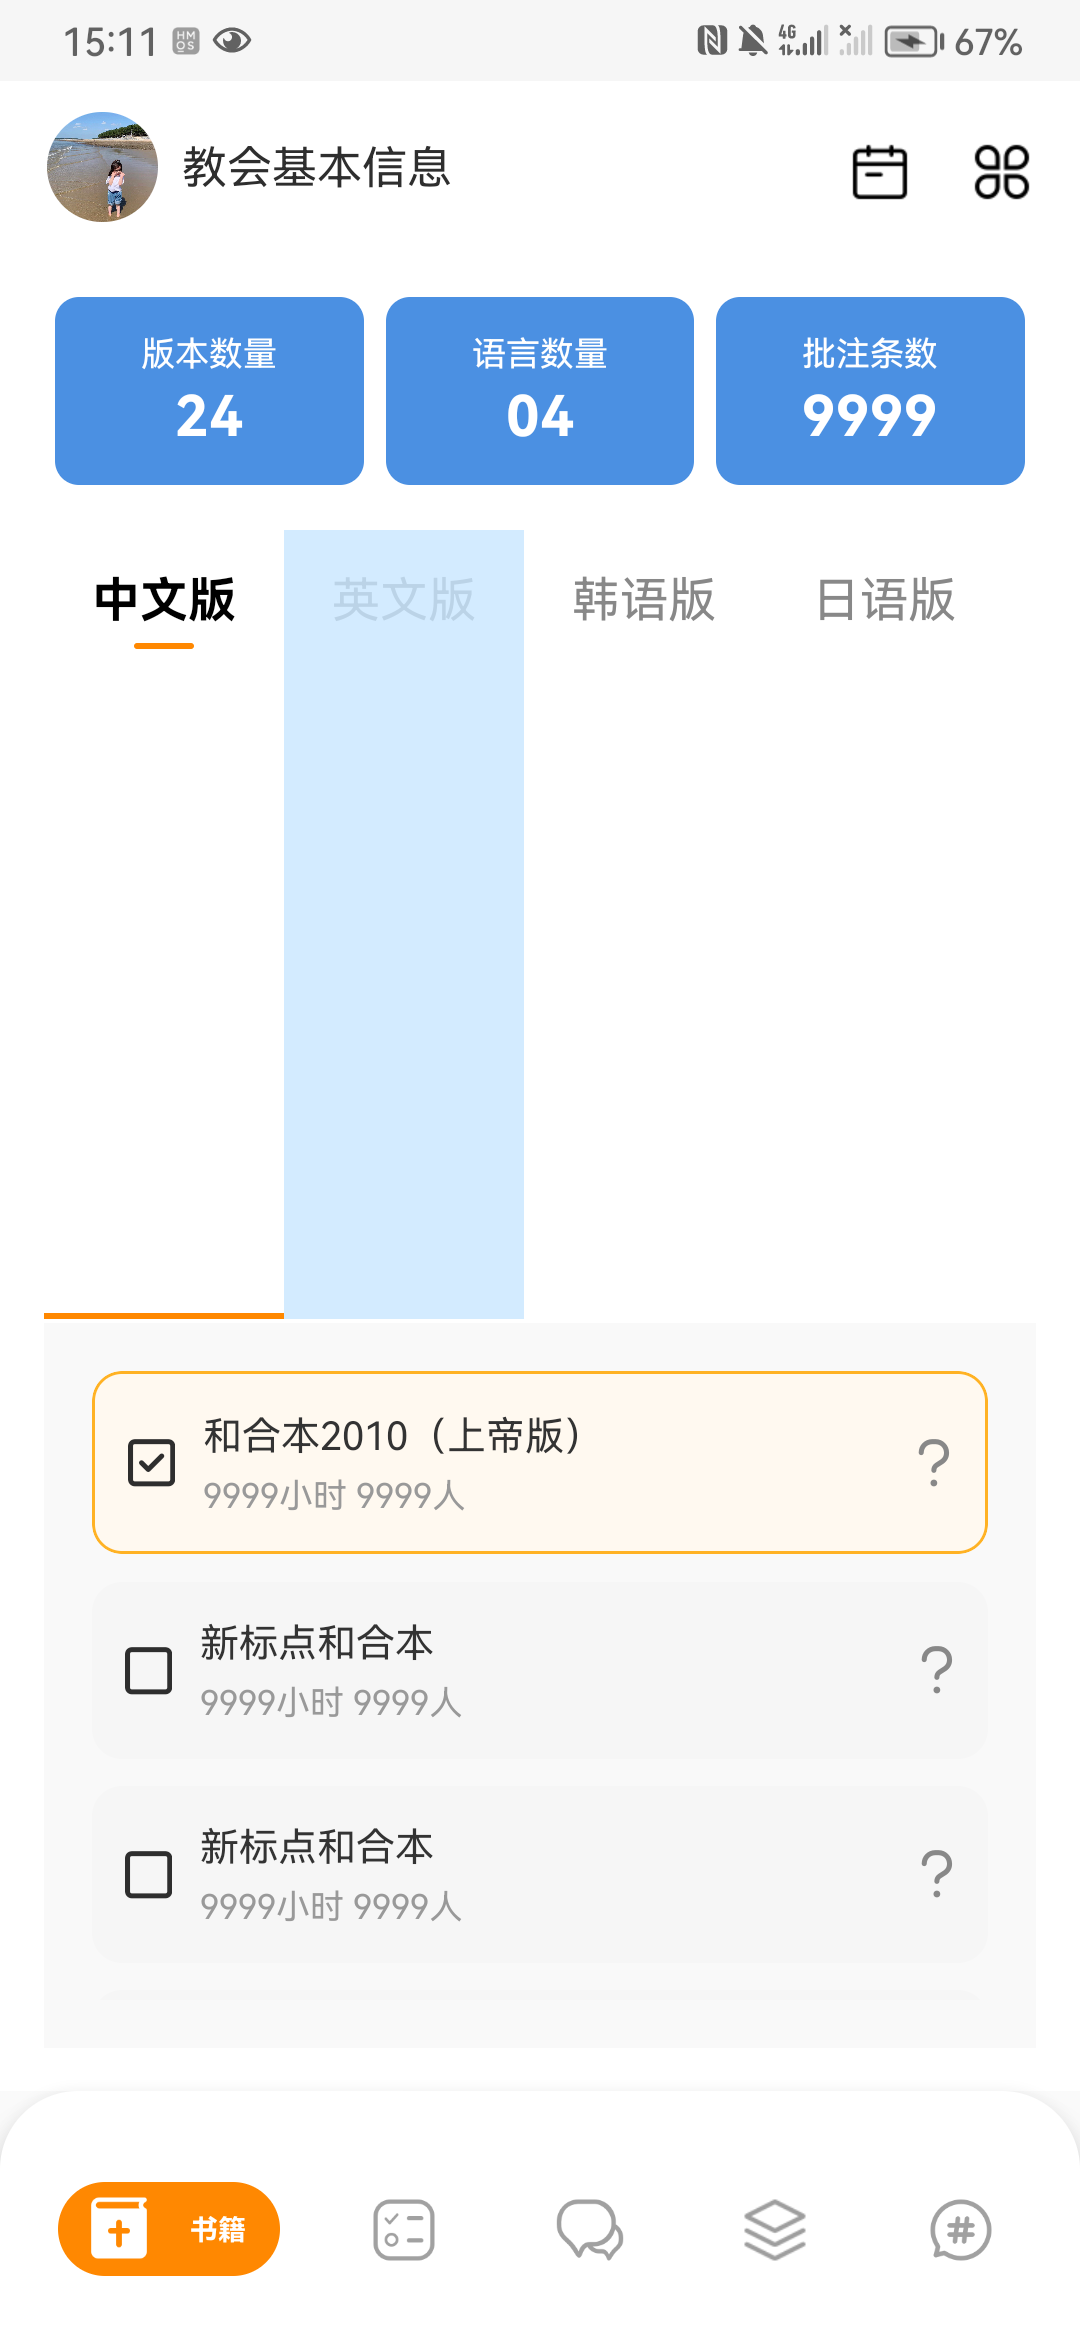
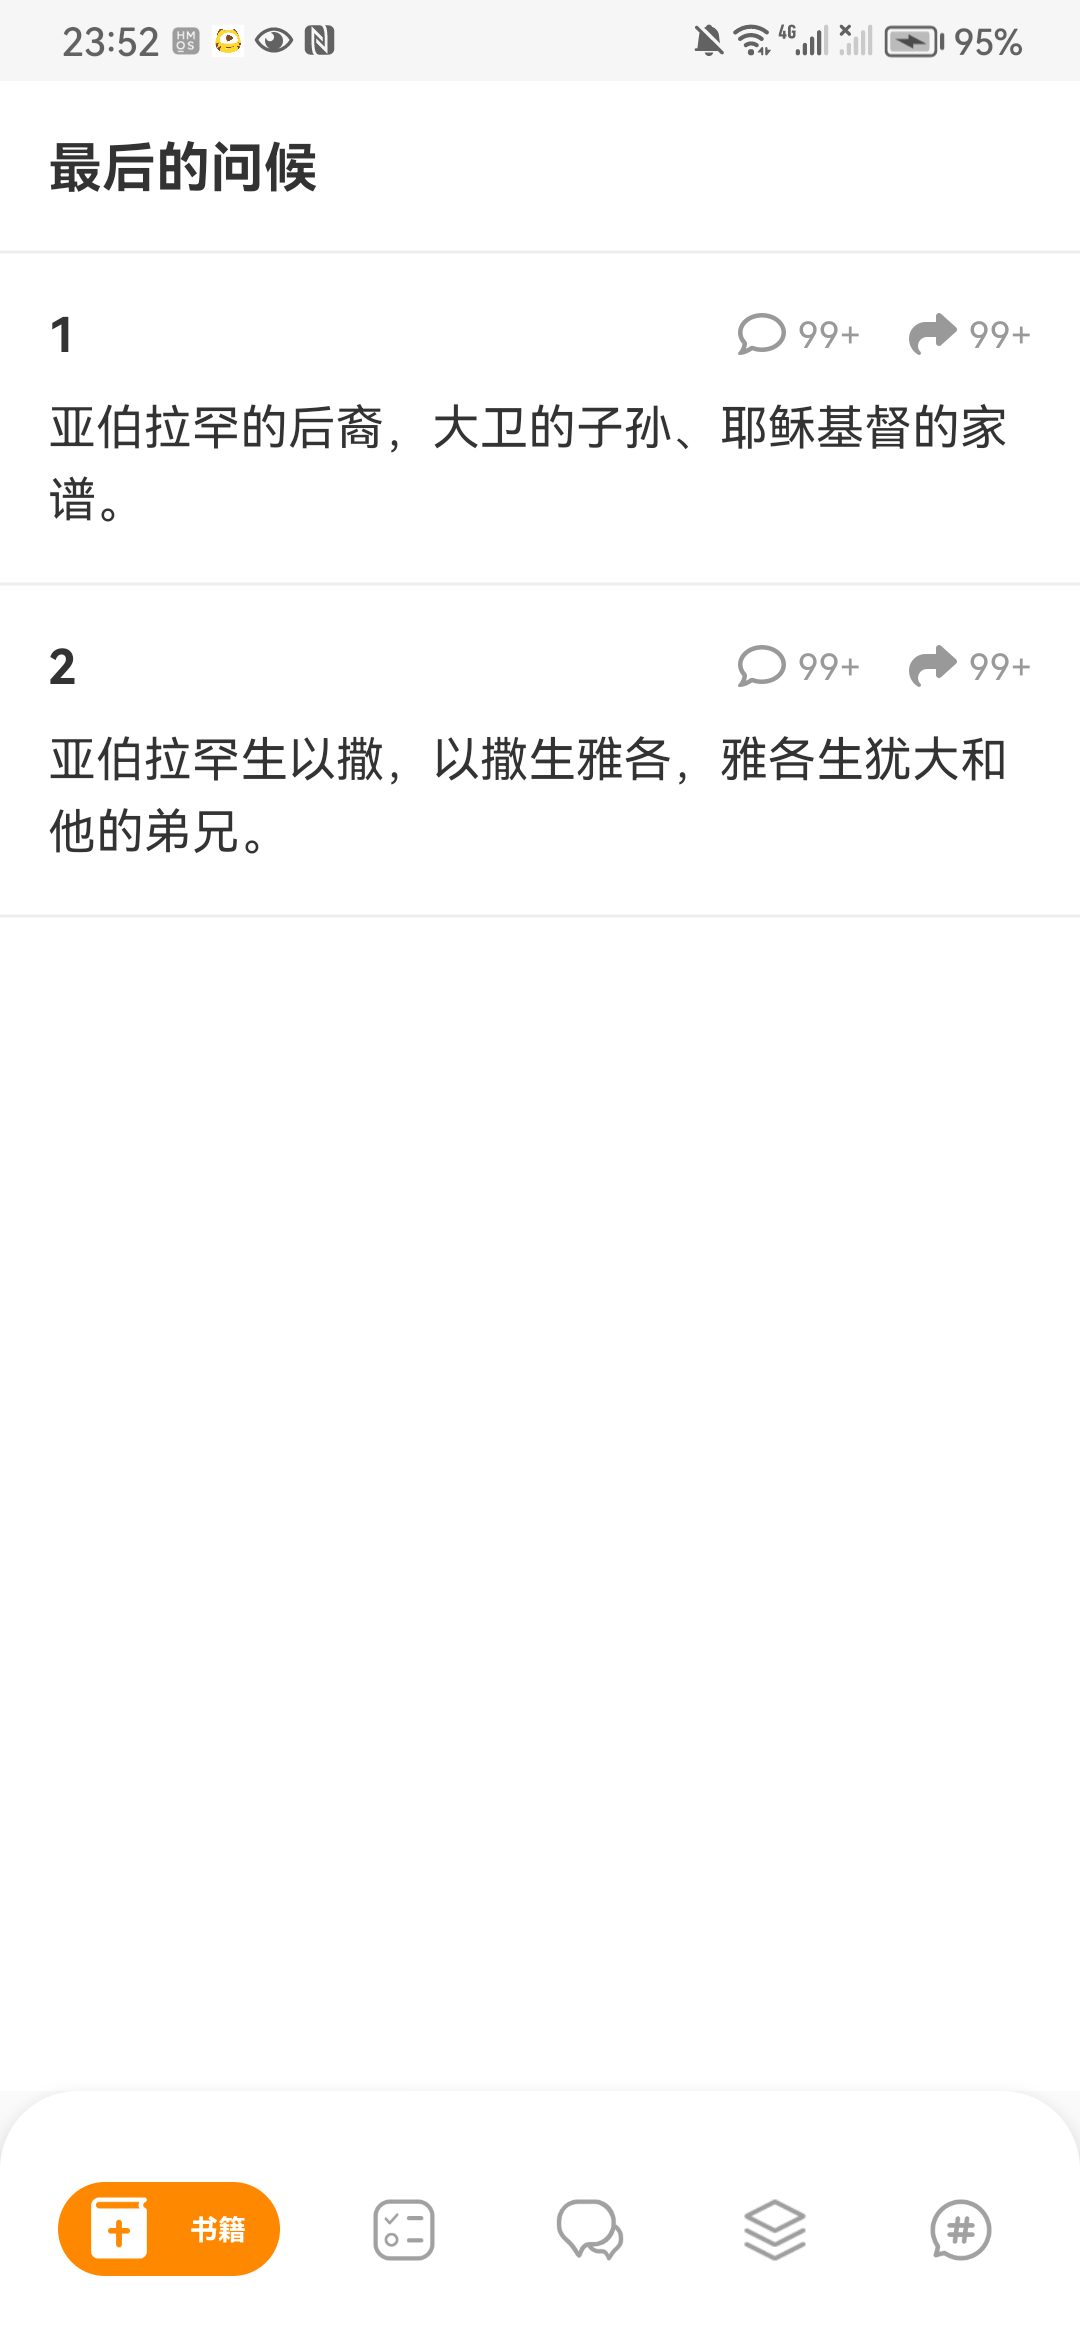
book

diff --git a/rn/screens/BookManage/Genealogy.tsx b/rn/screens/BookManage/Genealogy.tsx
@@ -1,0 +1,157 @@
+import React from 'react';
+import { View, StyleSheet, ScrollView, StatusBar, TouchableOpacity } from 'react-native';
+import BaseText from '@components/BaseText';
+import FontAwesome from '@react-native-vector-icons/fontawesome6';
+import { useNavigation } from '@react-navigation/native';
+
+const genealogyData = [
+    { id: 1, text: '亚伯拉罕的后裔，大卫的子孙、耶稣基督的家谱。' },
+    { id: 2, text: '亚伯拉罕生以撒，以撒生雅各，雅各生犹大和他的弟兄。' },
+    { id: 3, text: '犹大从他玛氏生法勒斯和谢拉。法勒斯生希斯仑，希斯仑生亚兰。' },
+    { id: 4, text: '亚兰生亚米拿达，亚米拿达生拿顺，拿顺生撒门。' },
+    { id: 5, text: '撒门从喇合氏生波阿斯，波阿斯从路得氏生俄备得，俄备得生耶西。' },
+    { id: 6, text: '耶西生大卫王。大卫从乌利亚的妻子生所罗门。' },
+    { id: 7, text: '所罗门生罗波安，罗波安生亚比雅，亚比雅生亚撒。' },
+    { id: 8, text: '亚撒生约沙法，约沙法生约兰，约兰生乌西亚。' },
+    { id: 9, text: '乌西亚生约坦，约坦生亚哈斯，亚哈希西家。' }
+];
+
+function GenealogyScreen(): React.JSX.Element {
+    const navigation = useNavigation();
+
+    return (
+        <>
+            <StatusBar barStyle="dark-content" backgroundColor="#F6F6F6" />
+
+            {/* 自定义 Header */}
+            <View style={styles.header}>
+                <View style={styles.headerLeft}>
+                    <TouchableOpacity style={styles.headerButton}>
+                        <FontAwesome name="book" size={18} color="#333" iconStyle="solid" />
+                    </TouchableOpacity>
+                    <BaseText style={styles.headerTitle}>马太福音 第一章</BaseText>
+                </View>
+                <View style={styles.headerRight}>
+                    <TouchableOpacity style={styles.headerButton}>
+                        <FontAwesome name="arrow-rotate-left" size={18} color="#333" iconStyle="solid" />
+                    </TouchableOpacity>
+                    <TouchableOpacity style={styles.headerButton}>
+                        <FontAwesome name="xmark" size={18} color="#333" iconStyle="solid" />
+                    </TouchableOpacity>
+                </View>
+            </View>
+
+            <ScrollView style={styles.container}>
+                <View style={styles.titleContainer}>
+                    <BaseText style={styles.title}>最后的问候</BaseText>
+                </View>
+
+                {genealogyData.map((item, index) => (
+                    <View key={item.id} style={styles.verseContainer}>
+                        <View style={styles.verseContent}>
+                            <BaseText style={styles.verseNumber}>{index + 1}</BaseText>
+                            <BaseText style={styles.verseText}>{item.text}</BaseText>
+                        </View>
+                        <View style={styles.actionButtons}>
+                            <FontAwesome name="comment" size={16} color="#999" style={styles.icon} iconStyle="solid" />
+                            <BaseText style={styles.commentCount}>99+</BaseText>
+                            <FontAwesome name="share" size={16} color="#999" style={styles.icon} iconStyle="solid" />
+                            <BaseText style={styles.shareCount}>99+</BaseText>
+                        </View>
+                    </View>
+                ))}
+            </ScrollView>
+        </>
+    );
+}
+
+const styles = StyleSheet.create({
+    container: {
+        flex: 1,
+        backgroundColor: '#fff',
+    },
+    titleContainer: {
+        padding: 16,
+        borderBottomWidth: 1,
+        borderBottomColor: '#EEEEEE',
+    },
+    title: {
+        fontSize: 18,
+        fontWeight: 'bold',
+        color: '#333',
+    },
+    verseContainer: {
+        padding: 16,
+        borderBottomWidth: 1,
+        borderBottomColor: '#EEEEEE',
+    },
+    verseContent: {
+        flexDirection: 'row',
+        marginBottom: 8,
+    },
+    verseNumber: {
+        fontSize: 12,
+        color: '#FFFFFF',
+        backgroundColor: '#3B8E58',
+        borderTopRightRadius: 6,
+        borderBottomRightRadius: 6,
+        paddingVertical: 2,
+        paddingHorizontal: 6,
+        marginRight: 6,
+        overflow: 'hidden',
+    },
+    verseText: {
+        flex: 1,
+        fontSize: 16,
+        color: '#333',
+        lineHeight: 24,
+    },
+    actionButtons: {
+        flexDirection: 'row',
+        alignItems: 'center',
+        justifyContent: 'flex-end',
+        marginTop: 8,
+    },
+    icon: {
+        marginHorizontal: 4,
+    },
+    commentCount: {
+        fontSize: 12,
+        color: '#999',
+        marginRight: 12,
+    },
+    shareCount: {
+        fontSize: 12,
+        color: '#999',
+    },
+    header: {
+        flexDirection: 'row',
+        justifyContent: 'space-between',
+        alignItems: 'center',
+        paddingVertical: 12,
+        backgroundColor: '#F6F6F6',
+        borderBottomWidth: 1,
+        borderBottomColor: '#EEEEEE',
+    },
+    headerLeft: {
+        flexDirection: 'row',
+        alignItems: 'center',
+        flex: 1,
+    },
+    headerRight: {
+        flexDirection: 'row',
+        alignItems: 'center',
+    },
+    headerButton: {
+        padding: 8,
+        marginHorizontal: 4,
+    },
+    headerTitle: {
+        fontSize: 16,
+        fontWeight: 'bold',
+        color: '#333',
+        marginLeft: 8,
+    },
+});
+
+export default GenealogyScreen;

diff --git a/rn/screens/BookManage/BookIntro.tsx b/rn/screens/BookManage/BookIntro.tsx
@@ -1,0 +1,133 @@
+import React from 'react';
+import { View, StyleSheet, ScrollView, StatusBar, TouchableOpacity, Image } from 'react-native';
+import BaseText from '@components/BaseText';
+import FontAwesome from '@react-native-vector-icons/fontawesome6';
+import { useNavigation } from '@react-navigation/native';
+
+function BookIntroScreen(): React.JSX.Element {
+    const navigation = useNavigation();
+
+    return (
+        <>
+            <StatusBar barStyle="dark-content" backgroundColor="#F6F6F6" />
+
+            {/* Header */}
+            <View style={styles.header}>
+                <View style={styles.headerLeft}>
+                    <TouchableOpacity style={styles.headerButton}>
+                        <FontAwesome name="book" size={18} color="#333" iconStyle="solid" />
+                    </TouchableOpacity>
+                    <BaseText style={styles.headerTitle}>马太福音</BaseText>
+                </View>
+                <TouchableOpacity style={styles.headerButton}>
+                    <FontAwesome name="xmark" size={18} color="#333" iconStyle="solid" />
+                </TouchableOpacity>
+            </View>
+
+            <ScrollView style={styles.container}>
+                {/* 封面图片 */}
+                <View style={styles.coverContainer}>
+                    <Image
+                        source={{ uri: 'https://your-image-url.com/cover.jpg' }}
+                        style={styles.coverImage}
+                    />
+                    <TouchableOpacity style={styles.likeButton}>
+                        <FontAwesome name="heart" size={24} color="#fff" iconStyle="solid" />
+                    </TouchableOpacity>
+                </View>
+
+                {/* 描述文本 */}
+                <View style={styles.contentContainer}>
+                    <BaseText style={styles.description}>
+                        反映四福音书均记载了耶稣在世的事迹，马太福音是用了一个见证为出发点记录主上所作的事的特殊意思的角度去看他的生平与教导，为此缘故，本书将旧约的预言与耶稣的生平连贯起来，从而阐演了旧约与新约之间的桥梁。反映四福音书均记载了耶稣在世的事迹，马太福音是用了一个见证为出发点记录主上所作的事的特殊意思的角度去看他的生平与教导，为此缘故，本书将旧约的预言与耶稣的生平连贯起来，从而阐演了旧约与新约之间的桥梁。
+                    </BaseText>
+                </View>
+
+                {/* 底部互动数据 */}
+                <View style={styles.interactionContainer}>
+                    <View style={styles.interactionBox}>
+                        <FontAwesome name="comment" size={20} color="#666" iconStyle="solid" />
+                        <BaseText style={styles.interactionCount}>9999</BaseText>
+                    </View>
+                </View>
+            </ScrollView>
+        </>
+    );
+}
+
+const styles = StyleSheet.create({
+    container: {
+        flex: 1,
+        backgroundColor: '#fff',
+    },
+    header: {
+        flexDirection: 'row',
+        justifyContent: 'space-between',
+        alignItems: 'center',
+        paddingVertical: 12,
+        backgroundColor: '#F6F6F6',
+        borderBottomWidth: 1,
+        borderBottomColor: '#EEEEEE',
+    },
+    headerLeft: {
+        flexDirection: 'row',
+        alignItems: 'center',
+        flex: 1,
+    },
+    headerButton: {
+        padding: 8,
+        marginHorizontal: 4,
+    },
+    headerTitle: {
+        fontSize: 16,
+        fontWeight: 'bold',
+        color: '#333',
+        marginLeft: 8,
+    },
+    coverContainer: {
+        position: 'relative',
+        width: '100%',
+        height: 200,
+    },
+    coverImage: {
+        width: '100%',
+        height: '100%',
+        resizeMode: 'cover',
+    },
+    likeButton: {
+        position: 'absolute',
+        right: 16,
+        bottom: 16,
+    },
+    contentContainer: {
+        padding: 16,
+    },
+    description: {
+        fontSize: 14,
+        color: '#666',
+        lineHeight: 22,
+    },
+    interactionContainer: {
+        flexDirection: 'row',
+        justifyContent: 'center',
+        paddingVertical: 16,
+        borderTopWidth: 1,
+        borderTopColor: '#EEEEEE',
+    },
+    interactionBox: {
+        flexDirection: 'row',
+        alignItems: 'center',
+        paddingHorizontal: 16,
+        paddingVertical: 8,
+        borderWidth: 1,
+        borderColor: '#EEEEEE',
+        borderRadius: 4,
+    },
+    interactionCount: {
+        marginLeft: 8,
+        fontSize: 14,
+        color: '#666',
+    },
+});
+
+export default BookIntroScreen;

diff --git a/rn/components/Tabs.tsx b/rn/components/Tabs.tsx
@@ -11,9 +11,9 @@ interface CustomTabsProps {
     tabs: {
         key: string;
         label: string;
-        renderItem?: React.ReactNode; // Tab 对应的内容区域
+        renderItem?: () => React.ReactNode; // 修改这里：从 ReactNode 改为函数
     }[];
-    onTabChange: (key: string) => void; // 切换事件
+    onTabChange: (key: string) => void;
 }
 
 const CustomTabs: React.FC<CustomTabsProps> = ({ tabs, onTabChange }) => {
@@ -31,6 +31,7 @@ const CustomTabs: React.FC<CustomTabsProps> = ({ tabs, onTabChange }) => {
                 horizontal
                 showsHorizontalScrollIndicator={false}
                 contentContainerStyle={styles.scrollContainer}
+                style={styles.scrollView}
             >
                 {tabs.map((tab) => (
                     <TouchableOpacity
@@ -48,18 +49,20 @@ const CustomTabs: React.FC<CustomTabsProps> = ({ tabs, onTabChange }) => {
 
             {/* 渲染选中 Tab 内容 */}
             <View style={styles.contentContainer}>
-                {tabs.find(item => activeTab === item.key)?.renderItem}
+                {tabs.find(item => activeTab === item.key)?.renderItem?.()}
             </View>
         </>
     );
 };
 
 const styles = StyleSheet.create({
+    scrollView: {
+        height: 60,
+        flexGrow: 0,
+    },
     scrollContainer: {
         flexDirection: 'row',
-        borderBottomWidth: 1,
-        borderBottomColor: '#eee',
-        backgroundColor: '#fff',
+        height: '100%',
     },
     tab: {
         paddingHorizontal: 16,
@@ -67,8 +70,8 @@ const styles = StyleSheet.create({
         alignItems: 'center',
     },
     activeTab: {
-        borderBottomWidth: 2,
-        borderBottomColor: '#FF8800',
+        // borderBottomWidth: 2,
+        // borderBottomColor: '#FF8800',
     },
     tabText: {
         fontSize: 16,
@@ -86,7 +89,7 @@ const styles = StyleSheet.create({
         borderRadius: 1,
     },
     contentContainer: {
-        flex: 1,
+        // flex: 1,
         backgroundColor: '#F9F9F9',
         padding: 16,
     },

diff --git a/rn/navigation/BookManage.tsx b/rn/navigation/BookManage.tsx
@@ -3,12 +3,14 @@ import { createNativeStackNavigator } from "@react-navigation/native-stack"
 import ReadingRoomHomeScreen from '../screens/ReadingRoom/ReadingRoomHomeScreen'
 import AnnotationList from '@screens/BookManage/AnnotationList';
 import VersionManageScreen from '@screens/BookManage/VersionManage';
+import GenealogyScreen from '@screens/BookManage/Genealogy';
+import BookIntro from '@screens/BookManage/BookIntro';
 
 const Stack = createNativeStackNavigator();
 
 export default function BookManageNavigator() {
     return (
-        <Stack.Navigator initialRouteName="VersionManageScreen">
+        <Stack.Navigator initialRouteName="BookIntro">
             <Stack.Screen
                 name="AnnotationList"
                 component={AnnotationList}
@@ -22,6 +24,16 @@ export default function BookManageNavigator() {
             <Stack.Screen
                 name="VersionManageScreen"
                 component={VersionManageScreen}
+                options={{ headerShown: false, animation: 'slide_from_right' }}
+            />
+            <Stack.Screen
+                name="GenealogyScreen"
+                component={GenealogyScreen}
+                options={{ headerShown: false, animation: 'slide_from_right' }}
+            />
+            <Stack.Screen
+                name="BookIntro"
+                component={BookIntro}
                 options={{ headerShown: false, animation: 'slide_from_right' }}
             />
         </Stack.Navigator>

diff --git a/rn/screens/BookManage/VersionManage.tsx b/rn/screens/BookManage/VersionManage.tsx
@@ -35,7 +35,7 @@ function VersionManageScreen(): React.JSX.Element {
                 <BaseText style={styles.cardDetail}>{item.hours} {item.people}</BaseText>
             </View>
             {item.image && <Image source={{ uri: item.image }} style={styles.cardImage} />}
-            <FontAwesome name="bars" size={18} color="#888" />
+            <FontAwesome name="bars" size={18} color="#888" iconStyle="solid" />
         </View>
     );
 
